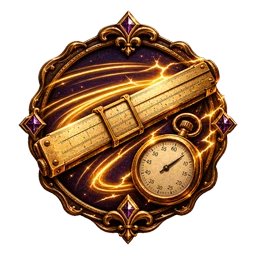
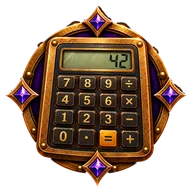
Icono de Cálculo: vuelve la calculadora anterior (v210)
Claude-Session: https://claude.ai/code/session_01Bat5Ai6AcLXwkKvVqjKGod

diff --git a/index.html b/index.html
@@ -52,15 +52,15 @@
 <link rel="preconnect" href="https://fonts.googleapis.com">
 <link rel="preconnect" href="https://fonts.gstatic.com" crossorigin>
 <link href="https://fonts.googleapis.com/css2?family=Playfair+Display:wght@600;700;800&family=Inter:wght@400;500;600;700;800;900&display=swap" rel="stylesheet">
-<link rel="stylesheet" href="styles/main.css?v=209">
+<link rel="stylesheet" href="styles/main.css?v=210">
 <!-- v1.4: estilos de la capa online (cuenta, migración, ranking). Solo clases .seq-* -->
-<link rel="stylesheet" href="styles/online.css?v=209">
-<link rel="stylesheet" href="styles/results-frame.css?v=209">
-<link rel="stylesheet" href="styles/visual-2-3.css?v=209">
-<link rel="stylesheet" href="styles/encargos.css?v=209">
-<link rel="stylesheet" href="styles/encargos-intro.css?v=209">
-<link rel="stylesheet" href="styles/sir-events.css?v=209">
-<link rel="stylesheet" href="styles/theme.css?v=209">
+<link rel="stylesheet" href="styles/online.css?v=210">
+<link rel="stylesheet" href="styles/results-frame.css?v=210">
+<link rel="stylesheet" href="styles/visual-2-3.css?v=210">
+<link rel="stylesheet" href="styles/encargos.css?v=210">
+<link rel="stylesheet" href="styles/encargos-intro.css?v=210">
+<link rel="stylesheet" href="styles/sir-events.css?v=210">
+<link rel="stylesheet" href="styles/theme.css?v=210">
 
 </head>
 <body class="on-home">
@@ -1133,55 +1133,55 @@ try {
 <!-- Fase 2: datos y constantes extraidos a modulos, cargados como scripts
      clasicos (no ES Modules) para conservar el scope global compartido con
      el script principal, sin convertir todavia la app a ES Modules. -->
-<script src="src/data/ui-maps.js?v=209"></script>
-<script src="src/data/questions.js?v=209"></script>
-<script src="src/data/questions-retired.js?v=209"></script>
-<script src="src/data/phrases.js?v=209"></script>
-<script src="src/data/duel-phrases.js?v=209"></script>
-<script src="src/data/lucidez.js?v=209"></script>
-<script src="src/data/medals.js?v=209"></script>
+<script src="src/data/ui-maps.js?v=210"></script>
+<script src="src/data/questions.js?v=210"></script>
+<script src="src/data/questions-retired.js?v=210"></script>
+<script src="src/data/phrases.js?v=210"></script>
+<script src="src/data/duel-phrases.js?v=210"></script>
+<script src="src/data/lucidez.js?v=210"></script>
+<script src="src/data/medals.js?v=210"></script>
 <!-- Prompt 3 — Fase C: sistema de avatares compartido (window.SEQAvatars). Debe
      cargarse antes de src/online/online.js y src/online/duels.js: ambos lo
      consumen en vez de mantener cada uno su propia copia de la lista. -->
-<script src="src/data/avatars.js?v=209"></script>
-<script src="src/share/share-card.js?v=209"></script>
+<script src="src/data/avatars.js?v=210"></script>
+<script src="src/share/share-card.js?v=210"></script>
 
 <!-- Fase 3 (Lote 3A): motor de coincidencia de respuestas extraido a
      src/utils/matching.js, mismo criterio que la Fase 2 (script clasico,
      sin ES Modules todavia). -->
-<script src="src/utils/matching.js?v=209"></script>
-<script src="src/utils/answer-alias.js?v=209"></script>
-<script src="src/utils/lucidez-select.js?v=209"></script>
-<script src="src/state/lucidez-bag.js?v=209"></script>
-<script src="src/utils/encargos-core.js?v=209"></script>
-<script src="src/utils/encargos-progress.js?v=209"></script>
-<script src="src/state/encargos.js?v=209"></script>
-<script src="src/data/encargos-phrases.js?v=209"></script>
-<script src="src/ui/encargos-ui.js?v=209"></script>
-<script src="src/data/named-phrases.js?v=209"></script>
-<script src="src/utils/named-phrases.js?v=209"></script>
-<script src="src/utils/encargos-intro-core.js?v=209"></script>
-<script src="src/data/encargos-intro-phrases.js?v=209"></script>
-<script src="src/ui/encargos-intro.js?v=209"></script>
-<script src="src/data/home-quotes.js?v=209"></script>
-<script src="src/ui/home-quote.js?v=209"></script>
-<script src="src/utils/sir-events.js?v=209"></script>
-<script src="src/ui/sir-events-ui.js?v=209"></script>
-<script src="src/state/sir-events.js?v=209"></script>
-<script src="src/utils/sudden-progression.js?v=209"></script>
-<script src="src/utils/fresh-first.js?v=209"></script>
-<script src="src/utils/mental-calc.js?v=209"></script>
-<script src="src/utils/mental-classic.js?v=209"></script>
-<script src="src/ui/mental-classic-ui.js?v=209"></script>
-<script src="src/ui/mental-menu.js?v=209"></script>
-<script src="src/ui/level-up.js?v=209"></script>
+<script src="src/utils/matching.js?v=210"></script>
+<script src="src/utils/answer-alias.js?v=210"></script>
+<script src="src/utils/lucidez-select.js?v=210"></script>
+<script src="src/state/lucidez-bag.js?v=210"></script>
+<script src="src/utils/encargos-core.js?v=210"></script>
+<script src="src/utils/encargos-progress.js?v=210"></script>
+<script src="src/state/encargos.js?v=210"></script>
+<script src="src/data/encargos-phrases.js?v=210"></script>
+<script src="src/ui/encargos-ui.js?v=210"></script>
+<script src="src/data/named-phrases.js?v=210"></script>
+<script src="src/utils/named-phrases.js?v=210"></script>
+<script src="src/utils/encargos-intro-core.js?v=210"></script>
+<script src="src/data/encargos-intro-phrases.js?v=210"></script>
+<script src="src/ui/encargos-intro.js?v=210"></script>
+<script src="src/data/home-quotes.js?v=210"></script>
+<script src="src/ui/home-quote.js?v=210"></script>
+<script src="src/utils/sir-events.js?v=210"></script>
+<script src="src/ui/sir-events-ui.js?v=210"></script>
+<script src="src/state/sir-events.js?v=210"></script>
+<script src="src/utils/sudden-progression.js?v=210"></script>
+<script src="src/utils/fresh-first.js?v=210"></script>
+<script src="src/utils/mental-calc.js?v=210"></script>
+<script src="src/utils/mental-classic.js?v=210"></script>
+<script src="src/ui/mental-classic-ui.js?v=210"></script>
+<script src="src/ui/mental-menu.js?v=210"></script>
+<script src="src/ui/level-up.js?v=210"></script>
 
 <!-- Fase 3 (Lote 3B): nucleo algoritmico de Duelo extraido a
      src/utils/duel.js, mismo criterio que el resto (script clasico, sin
      ES Modules todavia). Las dependencias compartidas con otros modos
      (arrangeStandardBlock, generateLucidezMentalOp)
      permanecen en este script principal, sin moverse en este lote. -->
-<script src="src/utils/duel.js?v=209"></script>
+<script src="src/utils/duel.js?v=210"></script>
 
 <!-- Fase 3 (Lote 3C): defaults, migracion y saneamiento del Store
      extraidos a src/utils/store.js, mismo criterio que el resto (script
@@ -1193,50 +1193,50 @@ try {
      getLevelData) y las 8 funciones de persistencia real (loadStore,
      saveStore, exportProgress...) permanecen en este script principal,
      sin moverse en este lote. -->
-<script src="src/utils/store.js?v=209"></script>
+<script src="src/utils/store.js?v=210"></script>
 
 <!-- Fase 4B: fachada de estado de solo lectura (getStore/getCurrentGame),
      mismo criterio que el resto (script clasico, sin ES Modules todavia).
      No copia, no transforma, no cachea. Ver src/state/read-facade.js. -->
-<script src="src/state/read-facade.js?v=209"></script>
+<script src="src/state/read-facade.js?v=210"></script>
 
-<script src="src/utils/streak-xp.js?v=209"></script>
+<script src="src/utils/streak-xp.js?v=210"></script>
 <!-- Fase 4C: helpers minimos de escritura (pushCapped, resetStreak) para
      eliminar 2 duplicaciones reales concretas -- no un sistema de
      mutaciones. Ver src/state/write-helpers.js y CHANGELOG_FASE4C.md. -->
-<script src="src/state/write-helpers.js?v=209"></script>
+<script src="src/state/write-helpers.js?v=210"></script>
 
 <!-- v1.4: capa online (cuenta Google, sincronización, migración, ranking).
      config.js es PÚBLICO (URL del Worker + Client ID de Google); si está
      vacío, la capa online queda desactivada y la app es idéntica a la v1.3.
      online.js solo usa el store/funciones del juego en tiempo de ejecución. -->
-<script src="src/ui/install-app.js?v=209"></script>
-<script src="src/ui/a11y.js?v=209"></script>
-<script src="src/ui/back-nav.js?v=209"></script>
-<script src="src/ui/game-fx.js?v=209"></script>
-<script src="src/ui/last-life.js?v=209"></script>
-<script src="src/ui/hitos.js?v=209"></script>
-<script src="src/ui/achievements.js?v=209"></script>
-<script src="src/ui/stats-extra.js?v=209"></script>
-<script src="src/ui/name-prompt.js?v=209"></script>
-<script src="src/ui/intro.js?v=209"></script>
-<script src="src/ui/mode-badges.js?v=209"></script>
-<script src="src/ui/lucidez-ui.js?v=209"></script>
-<script src="src/ui/sabias.js?v=209"></script>
-<script src="src/ui/icons.js?v=209"></script>
-<script src="src/online/config.js?v=209"></script>
+<script src="src/ui/install-app.js?v=210"></script>
+<script src="src/ui/a11y.js?v=210"></script>
+<script src="src/ui/back-nav.js?v=210"></script>
+<script src="src/ui/game-fx.js?v=210"></script>
+<script src="src/ui/last-life.js?v=210"></script>
+<script src="src/ui/hitos.js?v=210"></script>
+<script src="src/ui/achievements.js?v=210"></script>
+<script src="src/ui/stats-extra.js?v=210"></script>
+<script src="src/ui/name-prompt.js?v=210"></script>
+<script src="src/ui/intro.js?v=210"></script>
+<script src="src/ui/mode-badges.js?v=210"></script>
+<script src="src/ui/lucidez-ui.js?v=210"></script>
+<script src="src/ui/sabias.js?v=210"></script>
+<script src="src/ui/icons.js?v=210"></script>
+<script src="src/online/config.js?v=210"></script>
 <!-- v2.0: combinación de datos de jugador (mismo código que el servidor) y su sincronización -->
-<script src="src/utils/sync-merge.js?v=209"></script>
-<script src="src/online/data-sync.js?v=209"></script>
-<script src="src/online/online.js?v=209"></script>
+<script src="src/utils/sync-merge.js?v=210"></script>
+<script src="src/online/data-sync.js?v=210"></script>
+<script src="src/online/online.js?v=210"></script>
 <!-- v1.5: Amigos, Duelo online y Retos. El servidor decide preguntas, tiempo, aciertos y ganador. -->
-<script src="src/online/duels.js?v=209"></script>
+<script src="src/online/duels.js?v=210"></script>
 <!-- 2.1: Duelo por apuestas, ELO PvP, Rankings y estadísticas de Duelos (solo presentación; decide el servidor) -->
-<script src="src/online/duels-v21.js?v=209"></script>
-<script src="src/online/inbox.js?v=209"></script>
-<script src="src/online/push.js?v=209"></script>
+<script src="src/online/duels-v21.js?v=210"></script>
+<script src="src/online/inbox.js?v=210"></script>
+<script src="src/online/push.js?v=210"></script>
 <!-- Audio: sonidos del juego (src/audio/audio.js) -->
-<script src="src/audio/audio.js?v=209"></script>
+<script src="src/audio/audio.js?v=210"></script>
 
 <script>
 function closeWelcomeModal() {

diff --git a/sw.js b/sw.js
@@ -38,7 +38,7 @@
 // styles/main.css, src/data/medals.js, src/utils/store.js y src/online/duels.js (ya en el shell).
 // 2.0 (Prompt 5, tarjeta de compartir): subido de 10 a 11; nuevo src/share/share-card.js
 // (añadido al shell) y cambiaron index.html y src/online/duels.js.
-const CACHE_VERSION = 209;
+const CACHE_VERSION = 210;
 // Dos cachés (ver install/fetch más abajo):
 //  · CACHE_NAME  (versionada): index.html, CSS, JS, manifest e iconos. Es poco y es imprescindible: si no se puede guardar, la
 //    versión nueva no se instala y se queda la anterior.
@@ -575,7 +575,7 @@ const ASSET_REVS = {
   './assets/modes/ameba.webp': '9253546d',
   './assets/modes/amigos.webp': 'd908f9d6',
   './assets/modes/calculo-clasico.webp': '2bec7013',
-  './assets/modes/calculo.webp': '49d957df',
+  './assets/modes/calculo.webp': '005a5053',
   './assets/modes/contrarreloj.webp': '77bff741',
   './assets/modes/derrame.webp': '04ceb604',
   './assets/modes/duelo.webp': 'a4a67f60',
@@ -604,7 +604,7 @@ const ASSET_REVS = {
   './assets/modes/secreto.webp': '52143f5e',
   './assets/modes/suelto/ameba.webp': 'df950cb2',
   './assets/modes/suelto/calculo-clasico.webp': '0ff29c70',
-  './assets/modes/suelto/calculo.webp': '6565f430',
+  './assets/modes/suelto/calculo.webp': '8bcd1f43',
   './assets/modes/suelto/contrarreloj.webp': 'ef766c64',
   './assets/modes/suelto/derrame.webp': 'f5bb4ad6',
   './assets/modes/suelto/duelo.webp': 'ef6a0cf3',
